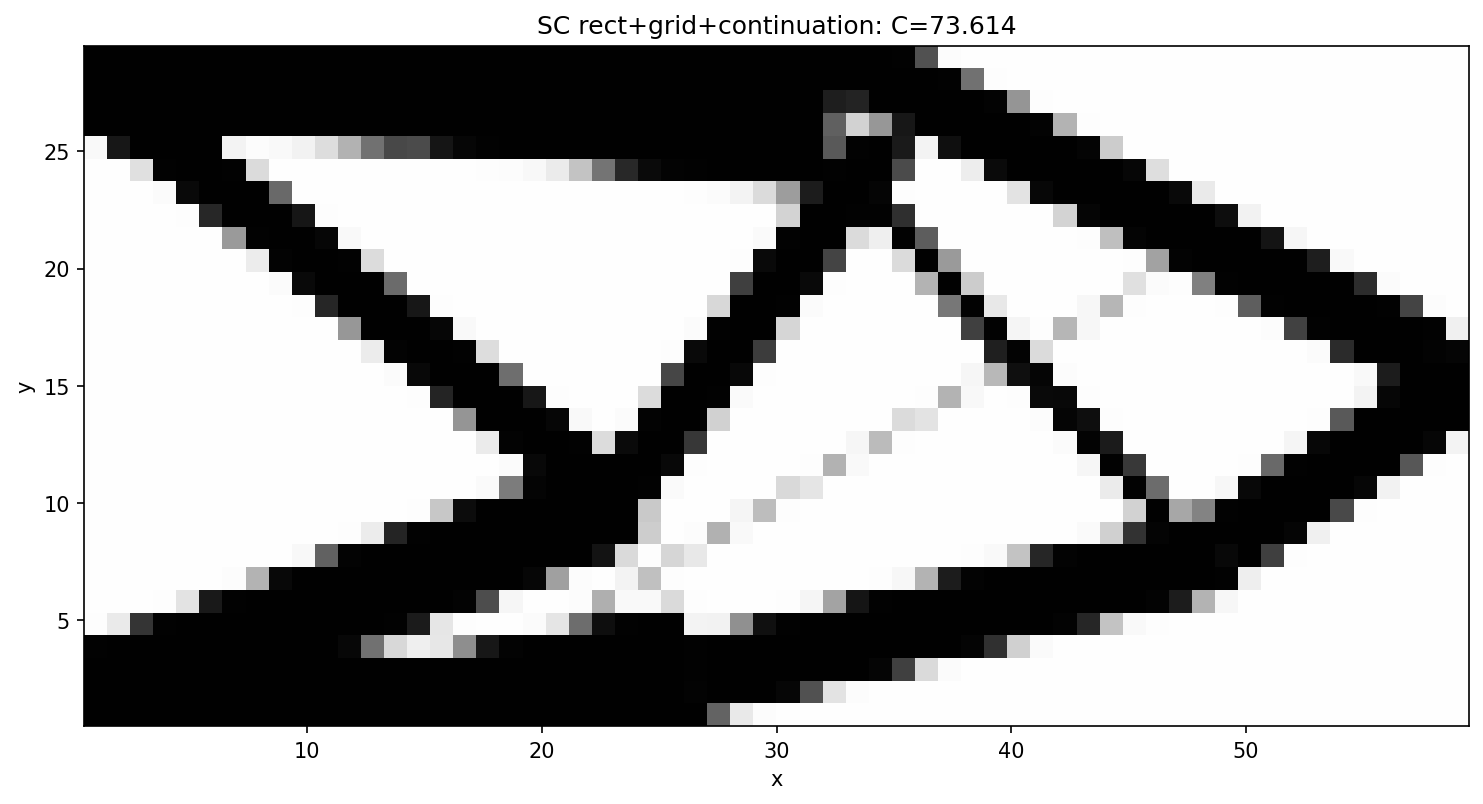
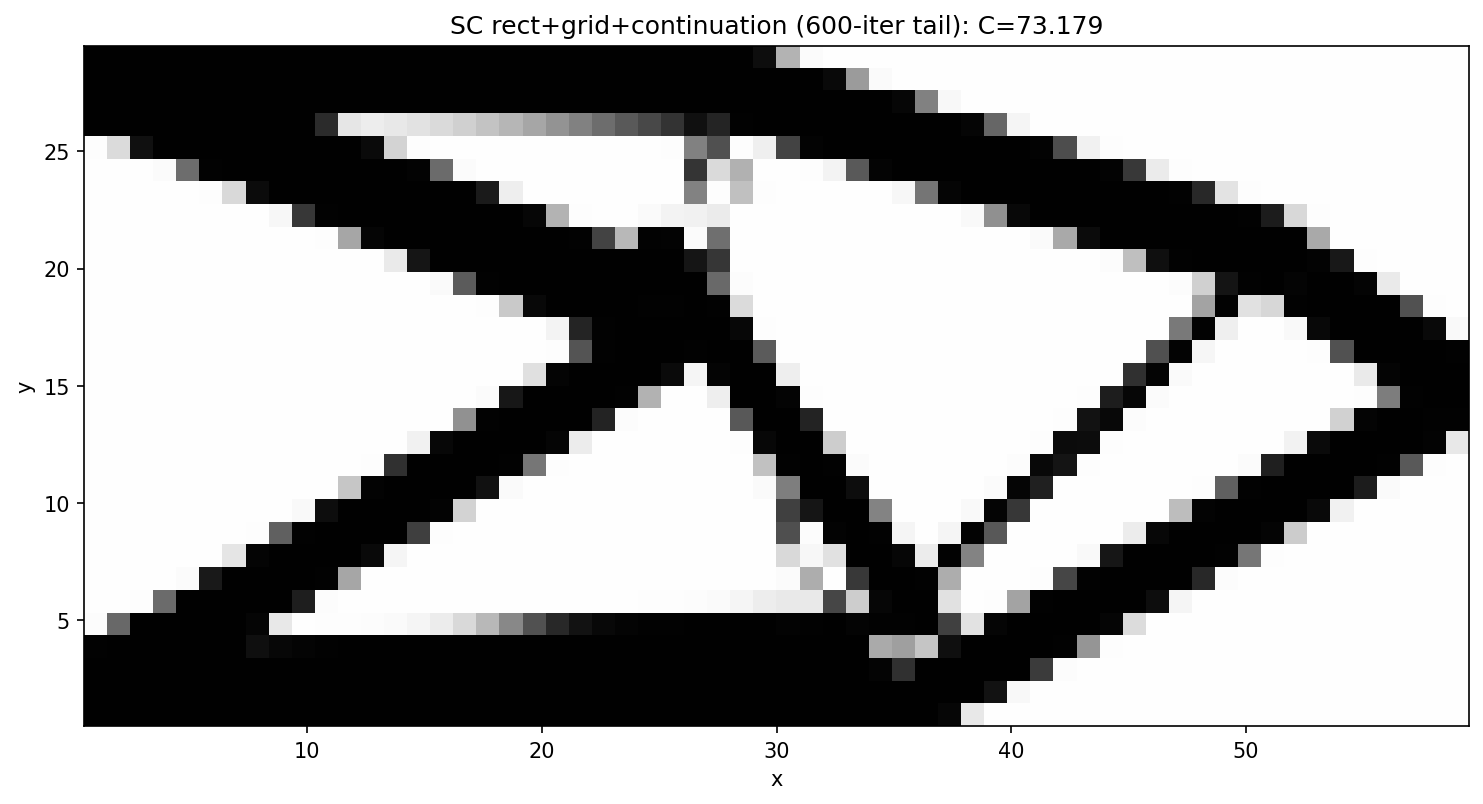
rect+grid: longer sharp tail improves convergence (C=73.18, less gray)
The 320-iter sharp phase left the design grayer than necessary. Extending the final
r_gp=0.5 continuation phase to 600 iterations lowers compliance 73.61 -> 73.18 (now
+1.47% vs the 74.27 baseline), with the volume constraint active (vol=0.40) and the
gray fraction down to ~0.18 (mostly thin edge-transition bands). Update section 4.4
and the figure.

Claude-Session: https://claude.ai/code/session_0139M2jyPc6cJGW33xV6te9t

diff --git a/docs/local_minima_review.md b/docs/local_minima_review.md
@@ -311,18 +311,25 @@ instead of the thin Matlab-style crossed bars. Preset: `short_cantilever_grid.ya
 | Start | Final C | vs baseline |
 |---|---|---|
 | crossed-bars (baseline) | 74.2703 | — |
-| rect grid-fill, single start | 92.30 | −24 % (worse) |
-| **rect grid-fill + continuation** | **73.61** | **+0.89 %** |
+| rect grid-fill, single start (320 it) | 92.30 | −24 % (worse) |
+| **rect grid-fill + continuation (600-it sharp tail)** | **73.18** | **+1.47 %** |
 
 The lesson mirrors §4.2: the grid-fill start *on its own* is **worse** (92.30) — it begins
 near-void and far from the solution topology, and the preset's tight `move=0.01` asymptotes
 cannot recover a good basin in 320 iterations, leaving gray mush in the centre. But run
-through the **`r_gp` continuation**, the very same start reaches **73.61, below the
-baseline** and on par with the GP crossed-bars continuation (73.52). A better *primitive
-and layout* helps only once the landscape is also smoothed — the starting guess and the
-homotopy are complementary, not substitutes.
+through the **`r_gp` continuation** with a long enough sharp tail, the very same start
+reaches **73.18, below the baseline** and on par with the GP crossed-bars continuation
+(73.52). A better *primitive and layout* helps only once the landscape is also smoothed —
+the starting guess and the homotopy are complementary, not substitutes.
 
-| rect grid-fill, single start (C = 92.30) | rect grid-fill + continuation (C = 73.61) |
+Convergence is iteration-sensitive here: at 320 sharp iterations the design is C = 73.61
+with a noticeably grayer interior; extending the final `r_gp = 0.5` phase to 600 iterations
+lowers it to **C = 73.18** with the volume constraint active (vol = 0.40) and the
+intermediate-density (gray) fraction down to ~0.18 — the residual gray being mostly thin
+edge-transition bands inherent to the smooth projection. A sharpening continuation (ramping
+`pp`/`gammac`) would drive it fully to 0/1 if a crisp design is required.
+
+| rect grid-fill, single start (C = 92.30) | rect grid-fill + continuation (C = 73.18) |
 |---|---|
 | ![rect grid single start](_static/sc2d_rect_grid_optimized.png) | ![rect grid + continuation](_static/sc2d_rect_grid_continuation.png) |
 
